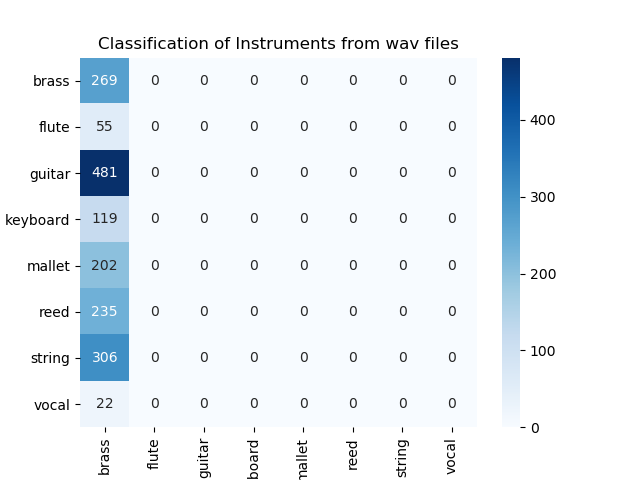
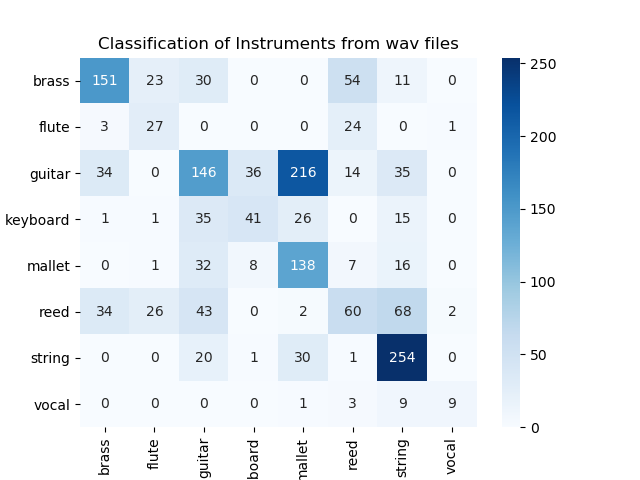
refactor for testing

diff --git a/neural_net.py b/neural_net.py
@@ -5,7 +5,6 @@ Must have run preprocess_data.py to generate keras friendly data files
 before running this neural net.
 """
 
-
 import tensorflow as tf
 from tensorflow import keras
 import numpy as np
@@ -14,39 +13,36 @@ from sklearn.metrics import confusion_matrix
 import seaborn
 from matplotlib import pyplot
 
-starttime = time.time()
-# get data from preprocessed files
-train_features = np.loadtxt('train/features.txt')
-endtime = time.time() - starttime
-print('loaded training data in ', endtime, 's.')
-#features = np.loadtxt('tests/features.txt')
 
-starttime = time.time()
-test_features = np.loadtxt('test/features.txt')
-endtime = time.time() - starttime
-print('loaded test data in ', endtime, 's.')
-# print(features.shape)
+def load_data(filepath):
+    """
+    Load preprocessed data to run through keras model.
+    :param filepath: String
+    :returns: numpy array
+    """
+    starttime = time.time()
+    # get data from preprocessed files
+    data = np.loadtxt(filepath)
+    endtime = time.time() - starttime
+    print('loaded data in ', endtime, 's.')
+    return data
 
-starttime = time.time()
-train_labels = np.loadtxt('train/labels.txt')
-endtime = time.time() - starttime
-print('loaded training labels in ', endtime, 's.')
 
-starttime = time.time()
-test_labels = np.loadtxt('test/labels.txt')
-endtime = time.time() - starttime
-print('loaded test labels in ', endtime, 's.')
-starttime = time.time()
+# get data
+
+train_labels = load_data('train/labels.txt')
+train_features = load_data('train/features.txt')
+test_labels = load_data('test/labels.txt')
+test_features = load_data('test/features.txt')
+
 
 dictfile = open('dictionary.txt', 'r')
-train_instruments = eval(dictfile.read())
-category_count = len(train_instruments)
+instr_dict = eval(dictfile.read())
+category_count = len(instr_dict)
 train_label_cats = keras.utils.to_categorical(train_labels, num_classes=category_count)
 test_label_cats = keras.utils.to_categorical(test_labels, num_classes=category_count)
 
 # build model
-
-all_labels = train_instruments.keys()
 
 model = keras.models.Sequential()
 
@@ -62,14 +58,18 @@ model.compile(optimizer='rmsprop',
               metrics=['accuracy'])
 
 # train model
+
+# use checkpointer to hold weights to prevent overtraining
+checkpointer = keras.callbacks.ModelCheckpoint(filepath='/tmp/weights.hdf5', verbose=1, save_best_only=True)
 starttime = time.time()
-model.fit(x=train_features, y=train_label_cats, epochs=100)
+model.fit(x=train_features, y=train_label_cats, epochs=10, callbacks=[checkpointer])
 endtime = time.time() - starttime
 print('one epoch in  ', endtime, 's.')
 
-# TODO: create testing dataset
+# create testing dataset
 model.evaluate(test_features, test_label_cats)
-# TODO: evaluate accuracy
+
+# evaluate accuracy
 predictions = model.predict(test_features)
 flat_predictions = np.argmax(predictions, axis=1)
 print(flat_predictions)
@@ -79,6 +79,7 @@ print(flat_actuals)
 conf_matrix = confusion_matrix(flat_actuals, flat_predictions)
 print(conf_matrix.shape)
 
+all_labels = instr_dict.keys()
 seaborn.heatmap(conf_matrix, cmap='Blues', annot=True, fmt='d', xticklabels=all_labels, yticklabels=all_labels)
 pyplot.xlabel('Actual')
 pyplot.ylabel('Predicted')

diff --git a/preprocess_data.py b/preprocess_data.py
@@ -42,7 +42,7 @@ def extract_data(file_names, audio_path, test_or_train):
 
     counter = 0
 
-    dictionary = eval(open('dictionary.txt', 'r').read())
+    instr_dict = eval(open('dictionary.txt', 'r').read())
 
     for wavfile in file_names:
 
@@ -58,7 +58,7 @@ def extract_data(file_names, audio_path, test_or_train):
         instr_name = instrument[0]          # first index is the name string
 
         # add correct value to labels that corresponds to dict entry for instrument key
-        labels = np.append(labels, dictionary[instr_name])
+        labels = np.append(labels, instr_dict[instr_name])
 
         if counter%100 == 0:
             print(counter, "files processed")

diff --git a/neural_net_spec.py b/neural_net_spec.py
@@ -1,0 +1,1 @@
+# unit tests for neural network
